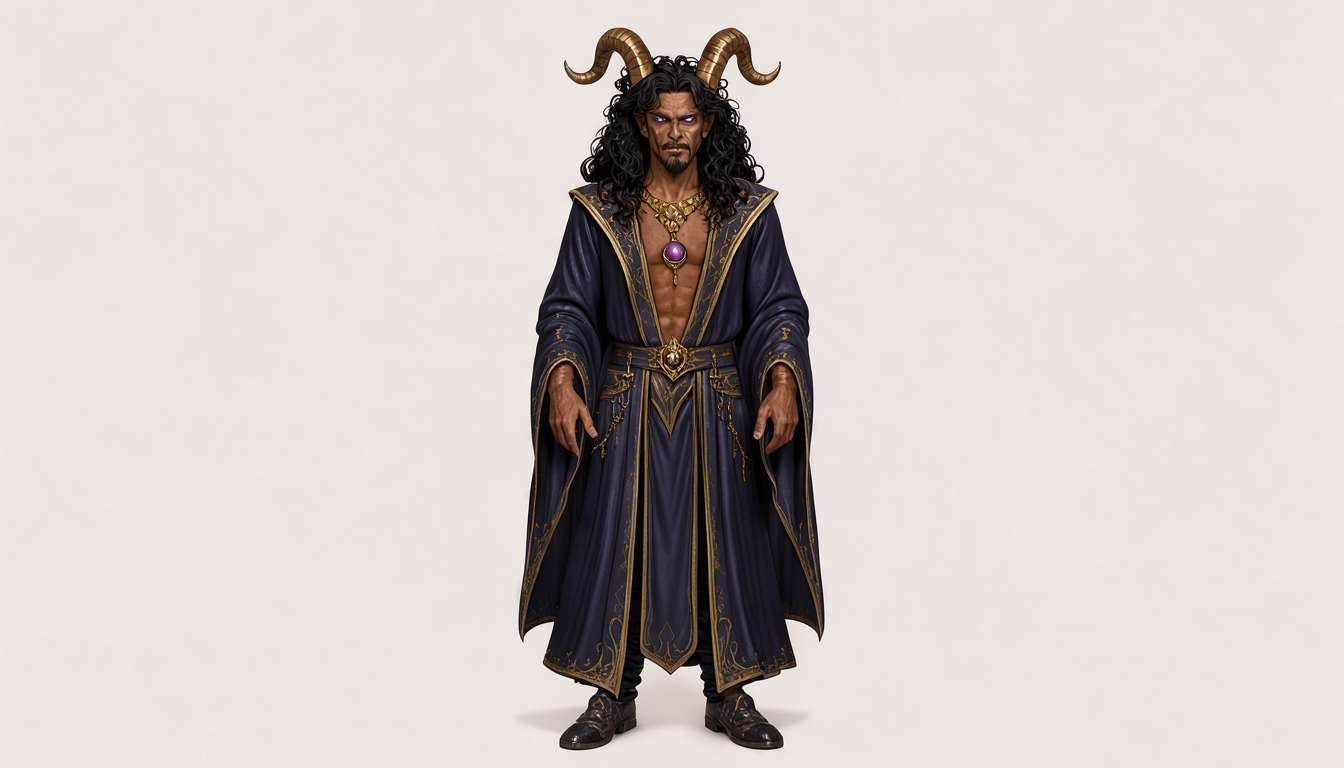
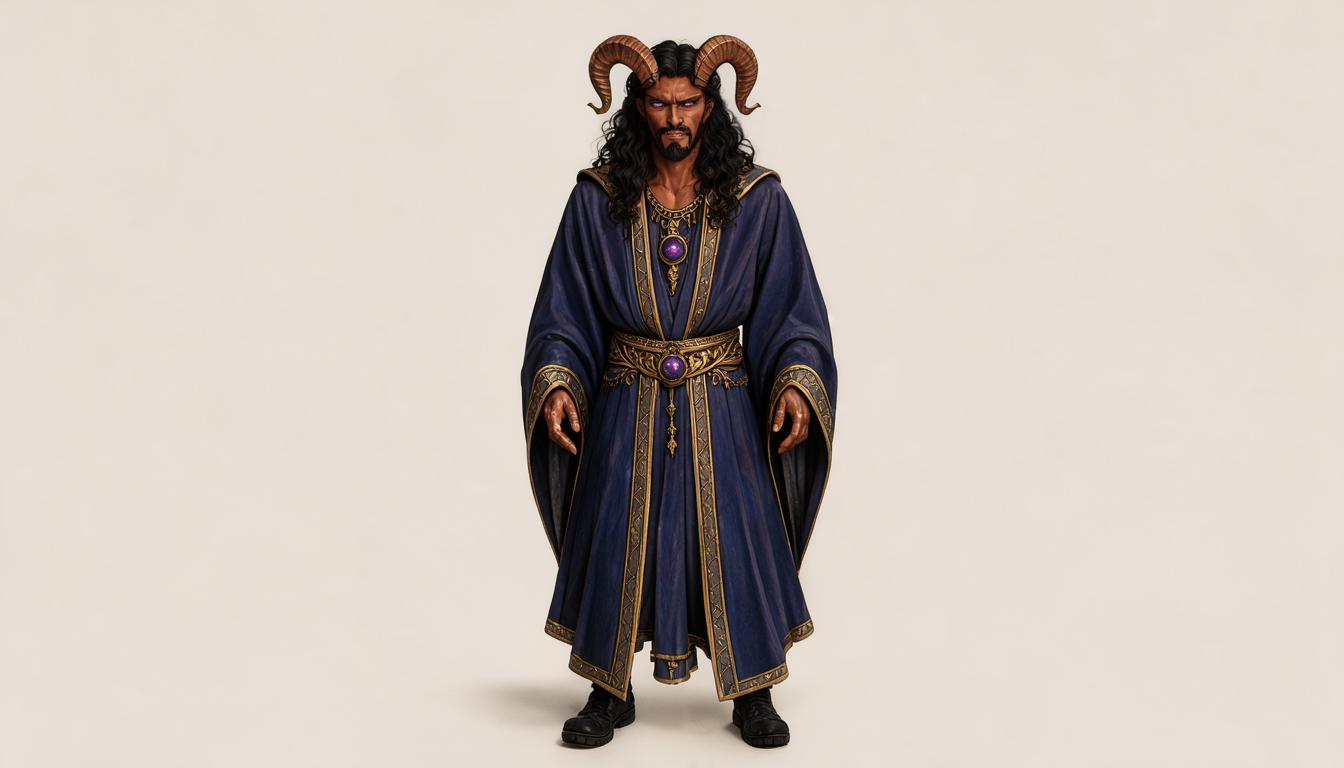
sheet-test: Keechwah lab batch 32 — redder skin holds without demon-read

Changed region(s): [[0.3438, 0.0312, 0.625, 1.0]]

diff --git a/tests/test_keechwahlab.py b/tests/test_keechwahlab.py
@@ -58,6 +58,12 @@ BATCH30_SEEDS = [2065821486, 930887360, 88839317, 1090675945, 1905371701, 155467
 BATCH31_KEYS = [f"keechwah_r{i:02d}" for i in range(1, 11)]
 BATCH31_SEEDS = [1904530516, 1660372660, 1261258012, 914509270, 597283485, 1793141911,
                  455843947, 1822728617, 575196528, 542303531]
+# Batch 32 ladder: redder-skin check (harvest script
+# C:/Users/Andrew/AppData/Local/Temp/harvest27.py, master seed 20261121,
+# verified disjoint from all 274 previously used seeds)
+BATCH32_KEYS = [f"keechwah_r{i:02d}" for i in range(1, 11)]
+BATCH32_SEEDS = [750162285, 1206558873, 1496924836, 352959242, 1449593620, 316783734,
+                 17335413, 776038280, 688472172, 1552965976]
 # Batch 3 ladder: 20-seed survey on the batch-2 block (master list seed
 # 20261104, verified disjoint from all previously used seeds)
 BATCH3_KEYS = [f"keechwah_r{i:02d}" for i in range(1, 21)]
@@ -149,6 +155,23 @@ BATCH31_BLOCK = (
     "ornate gold jewelry including a purple orb pendant, the ankle-length hem of the "
     "robes trimmed in gold."
 )
+# Batch 32: redder skin (user's transcript find — Ben: "unnatural, not a
+# human-toned skin color"; Aaron: "a little dark complected"). "warm bronze-tan
+# human skin with a faint red cast" -> "deep reddish-bronze skin": drops the
+# literal word "human" and makes red integral rather than a faint cast. Reopens
+# the batches 1-4 path deliberately — watching for the demon-read return.
+BATCH32_BLOCK = (
+    "An adult male warlock with an athletic build, exactly two normal arms, and no wings. "
+    "He has deep reddish-bronze skin, sharp masculine facial features with a stern, "
+    "knowing expression, and sharply pointed canine teeth. His narrow, almond-shaped eyes "
+    "rest under heavy eyelids, featuring solid glowing purple irises that fill the entire "
+    "visible eye with no white sclera or pupil. Long, thick, curly black hair frames his "
+    "face alongside a neatly trimmed dark black goatee, and his ears come to slight points. "
+    "Rising from the crown of his skull are two large curved bronze-brown horns with a "
+    "ridged texture, their bases buried deep within his thick hair line. He wears elegant, "
+    "flowing dark blue and gold wizard robes with ornate gold jewelry including a purple "
+    "orb pendant, the ankle-length hem of the robes trimmed in gold."
+)
 
 
 class TestKeechwahLabDescriptions(unittest.TestCase):
@@ -160,9 +183,10 @@ class TestKeechwahLabDescriptions(unittest.TestCase):
 
     def test_baseline_block_is_arm_b_verbatim(self):
         text, sources = self.load_block()
-        self.assertEqual(text, BATCH31_BLOCK, "batch-31 block must be the ankle-length swap verbatim")
+        self.assertEqual(text, BATCH32_BLOCK, "batch-32 block must be the redder-skin swap verbatim")
         self.assertNotIn("tail", text)
-        self.assertIn("ankle-length hem", text)
+        self.assertNotIn("human skin", text)
+        self.assertIn("deep reddish-bronze skin", text)
         self.assertIn("character-bible/Sheets/Keechwah.pdf", sources)
         self.assertIn(KEECHWAH_URL, sources)
         self.assertTrue(any("bible.md locked chunks" in s for s in sources))
@@ -176,13 +200,13 @@ class TestKeechwahLabPrompts(unittest.TestCase):
 
     def test_lab_prompts_schema(self):
         prompts = self.load_prompts()
-        self.assertEqual(list(prompts), BATCH31_KEYS, "lab keys must be the batch-31 ladder in order")
+        self.assertEqual(list(prompts), BATCH32_KEYS, "lab keys must be the batch-32 ladder in order")
         text, _ = TestKeechwahLabDescriptions().load_block()
-        for i, key in enumerate(BATCH31_KEYS):
+        for i, key in enumerate(BATCH32_KEYS):
             entry = prompts[key]
             self.assertEqual(list(entry.keys()), PROMPT_KEYS, f"{key} key mismatch")
             self.assertEqual(entry["arm"], "C")
-            self.assertEqual(entry["seed"], BATCH31_SEEDS[i], f"{key} seed mismatch")
+            self.assertEqual(entry["seed"], BATCH32_SEEDS[i], f"{key} seed mismatch")
             self.assertEqual(entry["frame"], FRAME_C)
             self.assertEqual(entry["prompt"], f"{FRAME_C} {ADDENDUM} {text}", f"{key} not exact composition")
             self.assertIn(entry["output"], (None, f"img/{key}.png"))
@@ -193,9 +217,9 @@ class TestKeechwahLabPrompts(unittest.TestCase):
 
         stems = [os.path.splitext(os.path.basename(p))[0] for p in _glob.glob("workflows/keechwahlab_*.json")]
         found = {s.removeprefix("keechwahlab_") for s in stems}
-        self.assertEqual(found, set(BATCH31_KEYS), f"lab workflow set mismatch: {found}")
+        self.assertEqual(found, set(BATCH32_KEYS), f"lab workflow set mismatch: {found}")
         prompts = self.load_prompts()
-        for key in BATCH31_KEYS:
+        for key in BATCH32_KEYS:
             with open(f"workflows/keechwahlab_{key}.json", encoding="utf-8") as f:
                 g = json.load(f)
             seeds = [n["inputs"][k] for n in g.values() for k in ("seed", "noise_seed") if k in n.get("inputs", {})]

diff --git a/character-bible/sheet-test/keechwah-lab/README.md b/character-bible/sheet-test/keechwah-lab/README.md
@@ -46,6 +46,8 @@ overwrite — every generation snapshots to `batches/batch<N>/` with its
 | batch29 | Fresh 10-seed ladder, tailless block unchanged (lottery test: 5/10 of batch 28 cropped) | keechwah_r01-r10 (new ladder) |
 | batch30 | Hem-trim anchor probe (user's proposal): tailless block + trailing hem trimmed in gold + 10-seed check | keechwah_r01-r10 (new ladder) |
 | batch31 | Ankle-length swap: "trailing" -> "ankle-length" (trailing literally drags), hem-detail anchor intact + 10-seed check | keechwah_r01-r10 (new ladder) |
+| batch32 | Redder skin (user transcript find): "warm bronze-tan human skin with a faint red cast" -> "deep reddish-bronze skin" (drops "human", red integral) + 10-seed check | keechwah_r01-r10 (new ladder) |
+| batch32 spot-check (agent 2026-11-03, r01/r04/r07/r10) | RED HOLDS WITHOUT DEMON: 4/4 read clearly non-human-toned reddish-bronze (r07 deepest), zero batch-1 regression — upright ridged horns + lidded purple eyes + goatee keep all four warlock, not devil. 4/4 full-body, ankle hems, closed robes, pendant present, no tails, no wings. Transcript-backed skin now has batch evidence. Full human read of all ten still wanted; then graduation. | - |
 | batch31 spot-check (agent 2026-11-03, r01/r04/r07/r10) | BOTH COUNTS PASS: 4/4 full-body (anchor survives the word swap) and 4/4 ankle-length hems with visible footwear, no pooling. Trim renders, robes closed, horns rooted, pendant present, no tails, no wings. Wording is done — pending full human read, then graduation on keepers. | - |
 | batch30 spot-check (agent 2026-11-03, r01/r04/r07/r10) | ANCHOR CONFIRMED: 4/4 full-body with feet visible. Gold trim renders at the hems, robes closed, horns rooted ridged (r07 ram-swept), orb pendant present, no invented tails, no wings. Hem detail drags the camera down the way face detail drags it in — trim earns its place as functional wording. Full human read of all ten still wanted; then graduation pool (27-fulls + 28-fulls + 30). | - |
 | batch29 spot-check (agent 2026-11-03, r01/r04/r07/r10) | LOTTERY FALSIFIED: 4/4 cropped busts. Combined with batch 28's 5/10, the crop rate ROSE after the tail clause was removed (batch-27 sample: 0/3). New hypothesis: the hem/tail language was a compositional anchor — describing the trailing hem pulls the camera back to full body; without it, the face/chest detail (iris sentence, pendant) drags the camera in (batch-20 mechanism in reverse). Next: reversal test — restore the tail clause on a fresh ladder. | - |

diff --git a/character-bible/sheet-test/keechwah-lab/descriptions.md b/character-bible/sheet-test/keechwah-lab/descriptions.md
@@ -8,7 +8,7 @@ hooves, duplicate Keechwahs.
 
 ## Keechwah (keechwah)
 
-An adult male warlock with an athletic build, exactly two normal arms, and no wings. He has warm bronze-tan human skin with a faint red cast, sharp masculine facial features with a stern, knowing expression, and sharply pointed canine teeth. His narrow, almond-shaped eyes rest under heavy eyelids, featuring solid glowing purple irises that fill the entire visible eye with no white sclera or pupil. Long, thick, curly black hair frames his face alongside a neatly trimmed dark black goatee, and his ears come to slight points. Rising from the crown of his skull are two large curved bronze-brown horns with a ridged texture, their bases buried deep within his thick hair line. He wears elegant, flowing dark blue and gold wizard robes with ornate gold jewelry including a purple orb pendant, the ankle-length hem of the robes trimmed in gold.
+An adult male warlock with an athletic build, exactly two normal arms, and no wings. He has deep reddish-bronze skin, sharp masculine facial features with a stern, knowing expression, and sharply pointed canine teeth. His narrow, almond-shaped eyes rest under heavy eyelids, featuring solid glowing purple irises that fill the entire visible eye with no white sclera or pupil. Long, thick, curly black hair frames his face alongside a neatly trimmed dark black goatee, and his ears come to slight points. Rising from the crown of his skull are two large curved bronze-brown horns with a ridged texture, their bases buried deep within his thick hair line. He wears elegant, flowing dark blue and gold wizard robes with ornate gold jewelry including a purple orb pendant, the ankle-length hem of the robes trimmed in gold.
 
 Sources:
 - character-bible/Sheets/Keechwah.pdf

diff --git a/character-bible/sheet-test/keechwah-lab/batches/batch32/descriptions.md b/character-bible/sheet-test/keechwah-lab/batches/batch32/descriptions.md
@@ -1,0 +1,16 @@
+# Keechwah Lab — baseline block for seed-robustness testing
+
+Single block source for `keechwah-lab`. Batch 1 is the Arm B Keechwah
+block verbatim (the starting point, as the Shade lab began from its
+Arm B block). Known failure modes from the bible NEVER list to watch
+for: female render, wings (Verruth confusion — Keechwah has NONE),
+hooves, duplicate Keechwahs.
+
+## Keechwah (keechwah)
+
+An adult male warlock with an athletic build, exactly two normal arms, and no wings. He has deep reddish-bronze skin, sharp masculine facial features with a stern, knowing expression, and sharply pointed canine teeth. His narrow, almond-shaped eyes rest under heavy eyelids, featuring solid glowing purple irises that fill the entire visible eye with no white sclera or pupil. Long, thick, curly black hair frames his face alongside a neatly trimmed dark black goatee, and his ears come to slight points. Rising from the crown of his skull are two large curved bronze-brown horns with a ridged texture, their bases buried deep within his thick hair line. He wears elegant, flowing dark blue and gold wizard robes with ornate gold jewelry including a purple orb pendant, the ankle-length hem of the robes trimmed in gold.
+
+Sources:
+- character-bible/Sheets/Keechwah.pdf
+- https://www.dndbeyond.com/species/7-tiefling
+- bible.md locked chunks (main checkout)
